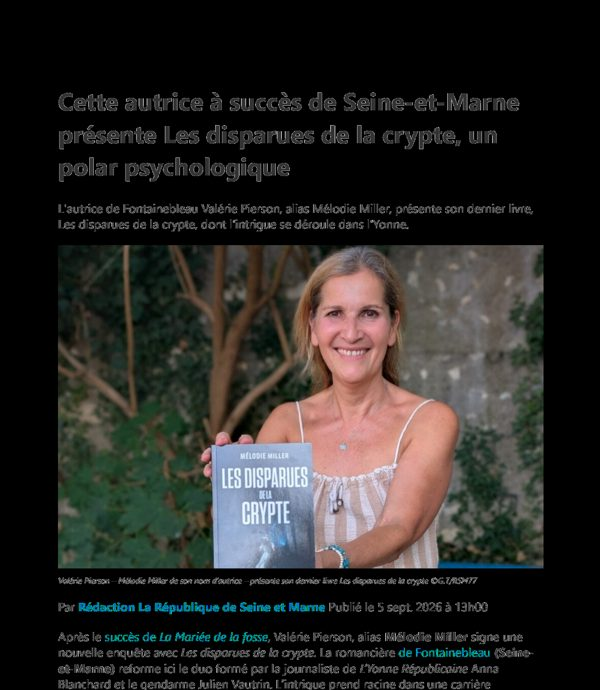
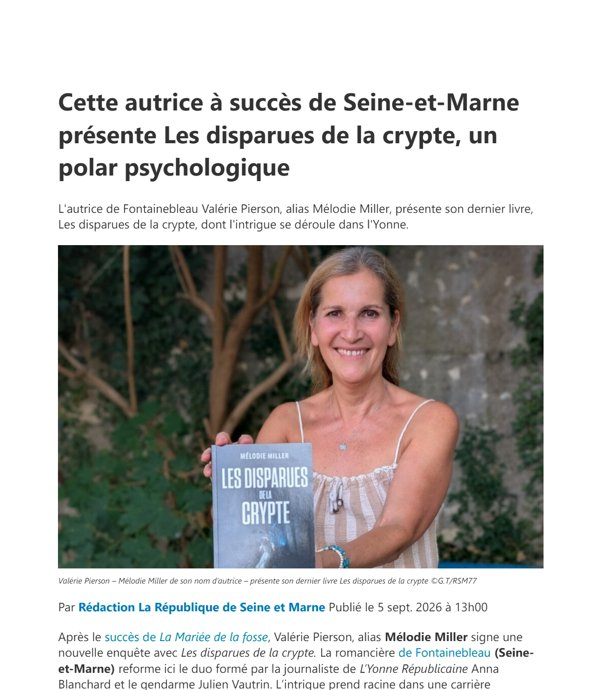
Bas de page en 2 bandes, coupure Republique 77 sur fond blanc, tuiles conferences
- Newsletter separee de la bande des mentions legales (filet + espace)
- Coupure du 5 septembre : PNG aplati sur fond blanc, vignette refaite
- Conferences : "Quelques rencontres" en tuiles calendrier marine et or

diff --git a/assets/css/univers-conference.css b/assets/css/univers-conference.css
@@ -8,3 +8,10 @@
 [data-univers="conference"] .cta { background: var(--conf-soft); padding: 2rem; margin-block: 2rem; }
 [data-univers="conference"] .photo img { border-radius: 0; }
 [data-univers="conference"] .photo figcaption { color: var(--conf-fg); }
+
+/* « Quelques rencontres » : tuiles calendrier marine et or */
+.conf-evts { grid-template-columns: repeat(auto-fill, minmax(min(100%, 380px), 1fr)); }
+[data-univers="conference"] .conf-evts .evt { background: var(--conf-soft); padding: 1.3rem 1.5rem; gap: 1.3rem; border-left: 4px solid var(--conf-gold); border-radius: 4px; }
+[data-univers="conference"] .conf-evts .evt-cal { width: 5.4rem; border-top-color: var(--conf-gold); background: #fff; color: var(--conf-fg); }
+[data-univers="conference"] .conf-evts .evt-jour { font-size: 1.8rem; letter-spacing: .04em; }
+[data-univers="conference"] .conf-evts .evt-titre { font-family: var(--conf-titre); font-size: 1.45rem; font-weight: 700; }

diff --git a/conferences/index.html b/conferences/index.html
@@ -37,9 +37,17 @@ permalink: /conferences/
 
 <section class="container section">
   <h2>{{ c.rencontres.titre }}</h2>
-  <ul class="agenda">
-    {% for e in c.rencontres.liste %}
-    <li><span class="agenda-date">{{ e.quand }}</span><span class="agenda-titre">{{ e.sujet }}</span><span class="agenda-lieu">{{ e.lieu }}</span></li>
+  {% assign liste = c.rencontres.liste | reverse %}
+  <ul class="agenda-evts conf-evts">
+    {% for e in liste %}
+    {% assign q = e.quand | split: " " %}
+    <li class="evt">
+      <div class="evt-cal"><span class="evt-jour">{{ q[0] | slice: 0, 3 | upcase }}</span><span class="evt-mois">{{ q[1] }}</span></div>
+      <div class="evt-corps">
+        <h3 class="evt-titre">{{ e.sujet }}</h3>
+        <span class="evt-lieu">{{ e.lieu }}</span>
+      </div>
+    </li>
     {% endfor %}
   </ul>
 </section>

diff --git a/assets/css/base.css b/assets/css/base.css
@@ -171,7 +171,8 @@ blockquote footer { font-size: .85rem; opacity: .85; }
 .fin-contact { margin-top: 2rem; font-family: var(--titre); font-size: 1.3rem; }
 
 /* Newsletter : bande pleine largeur, texte centré */
-.newsletter-bande { padding-block: 1.8rem 1.4rem; text-align: center; }
+.newsletter-bande { margin-top: 3rem; padding-block: 2.5rem; text-align: center; border-top: 1px solid color-mix(in srgb, var(--fg) 15%, transparent); border-bottom: 2px solid color-mix(in srgb, var(--fg) 25%, transparent); }
+.newsletter-bande + .site-footer { margin-top: 0; border-top: 0; }
 .newsletter-bande .large { width: min(1400px, 100% - 3rem); margin-inline: auto; }
 .newsletter h2 { font-size: clamp(1.4rem, 2.4vw, 2rem); margin-bottom: .3em; }
 .newsletter h2 { text-wrap: balance; }

diff --git a/_includes/footer.html b/_includes/footer.html
@@ -1,8 +1,8 @@
 {% capture nl %}{% include newsletter-lien.html %}{% endcapture %}
+{% unless page.accueil %}
+<section class="newsletter-bande" aria-label="Newsletter"><div class="large">{% include newsletter.html %}</div></section>
+{% endunless %}
 <footer class="site-footer">
-  {% unless page.accueil %}
-  <div class="newsletter-bande"><div class="large">{% include newsletter.html %}</div></div>
-  {% endunless %}
   <div class="container footer-bas">
     <p><strong>{{ site.data.site.signature }}</strong></p>
     <p>{{ site.data.site.slogan_pied }}</p>
